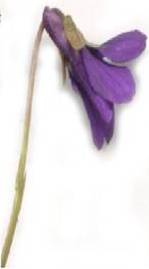
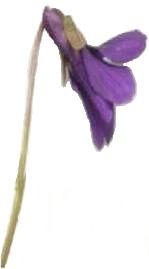
Tentative d'amélioration

diff --git a/flsv/violet/viola_odorata.htm b/flsv/violet/viola_odorata.htm
@@ -65,9 +65,10 @@
          <div id="bandeau"><h2><em>Viola odorata</em><br /><font size="3">L., 1753</font><br /><small>Violette odorante<br />Famille des <a style="color:#d3c810" href="../familles_botaniques/ordMalpighiales.htm#viola">Violaceae</a></small></h2><p align="left" style="font-size:small; font-weight: bold;">Ordre des Malpighiales<br />Clades des Fabids / Rosids / Pentapetalae / Gunneridae / Eudicotyledons</p></div></div>
 
          <table cellpadding="10" bgcolor="#ffffff" align="center">
-        <tr><td align="center" colspan="2"><img src="../../imag01/viola_odorata.jpg" width="501" height="608" title="Violette odorante" /><</td></tr>
+        <tr><td align="center" colspan="2"><img src="../../imag01/viola_odorata.jpg" width="501" height="608" title="Violette odorante" /></td></tr>
                     <tr><td colspan="2"><a name="descriptif"></a><em>VIOLA odorata</em> L.<br />Violette odorante<h4>Dans l'Yonne</h4></td></tr>
-                    <tr><td height="269px">
+                    <tr><td>
+                    <table><tr><td height="269px">
                             <ul>
                                 <li>Assez commune.</li>
                                 <li>Mode de vie : vivace.</li>
@@ -76,8 +77,7 @@
                                 <li>Tailles : <img src="../../imag03/taille_plante.jpg" width="30" height="67" title="taille de la plante" />5 à 15 cm<br /><img src="../../imag03/taille_fleur.jpg" width="30" height="30" title="taille de la fleur" />&#160;15 mm.</li>
                             </ul>
                         </td>
-                      <td width="149px" valign="top"><img src="../../imag01/viola_odorata2.jpg" width="149" height="269" title="Viola odorata" /></td>
-                    </tr>
+                      <td height="269px" width="149px" valign="top"><img src="../../imag01/viola_odorata2.jpg" width="149" height="269" title="Viola odorata" /></td></tr></table></td></tr>
                     <tr>
                         <td align="left" colspan="2">
                     <h4>Origine supposée des noms</h4>
